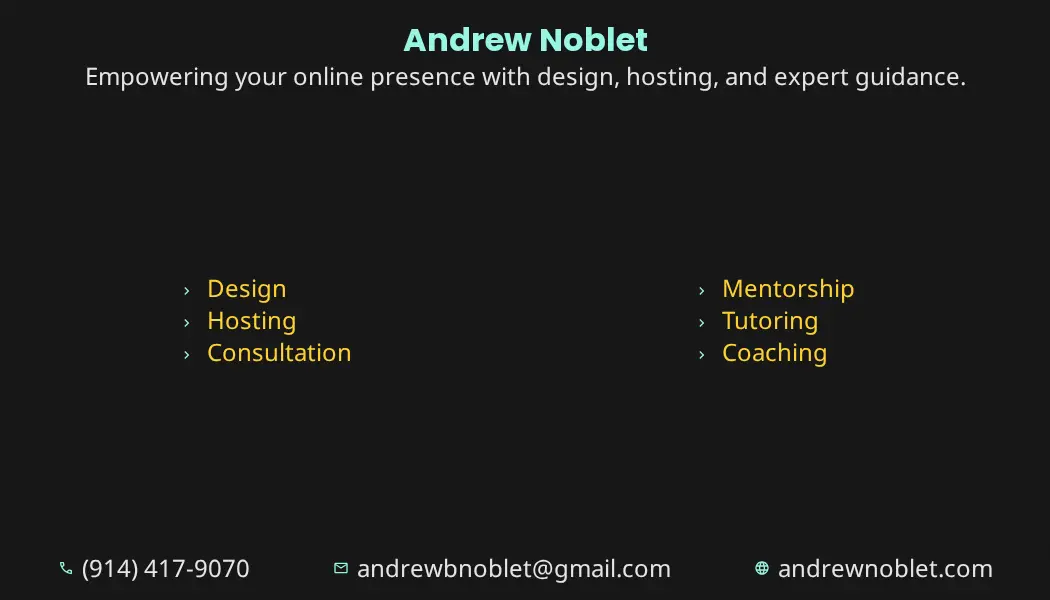
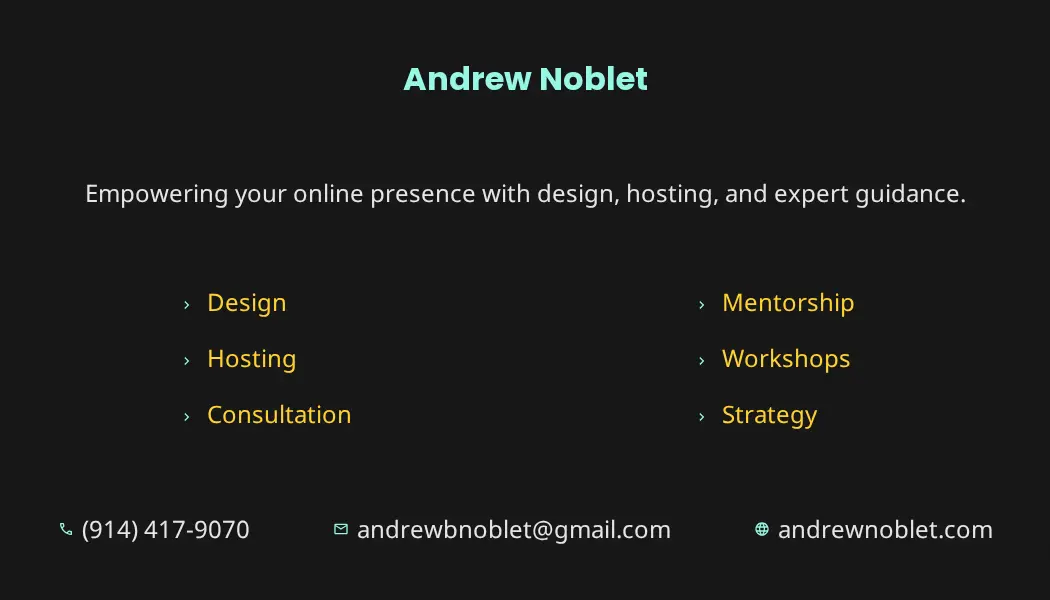
feat(ui,docs,about): enhance structure, clarity, and accessibility
Redesign about, business card, and portfolio pages for stronger personal focus, improved accessibility, and cleaner layouts based on user feedback. Refactor component styles to enforce atomic CSS, unify utility classes, and decouple global styles. Update navigation, pricing, and blog interfaces for consistency and visual balance. Revise and clarify project and instructions documentation, strictly enforcing minimal blog frontmatter standards and separated tool-specific guidelines. Implement reusable logic, optimize spacing, and validate all changes for visual correctness, accessibility, and maintainability. These updates prioritize minimalism, modularity, and user-centered design while supporting autonomous workflows and open-source best practices.

diff --git a/src/components/business-card.ts b/src/components/business-card.ts
@@ -70,15 +70,15 @@ export class BusinessCard extends Base {
                 guidance.
               </p>
               <div class="align-items-center flex space-around">
-                <ul class="amber-300 font-size-1-5">
+                <ul class="amber-300 font-size-1-5 gap-2 grid">
                   <li>Design</li>
                   <li>Hosting</li>
                   <li>Consultation</li>
                 </ul>
-                <ul class="amber-300 font-size-1-5">
+                <ul class="amber-300 font-size-1-5 gap-2 grid">
                   <li>Mentorship</li>
-                  <li>Tutoring</li>
-                  <li>Coaching</li>
+                  <li>Workshops</li>
+                  <li>Strategy</li>
                 </ul>
               </div>
               <div class="flex font-size-1-5 space-around">

diff --git a/scripts/screenshot-business-card.js b/scripts/screenshot-business-card.js
@@ -25,7 +25,7 @@ const __filename = fileURLToPath(import.meta.url);
 const __dirname = path.dirname(__filename);
 
 const SCREENSHOT_DIR = '.screenshots';
-const DEV_SERVER_URL = 'http://localhost:4322/business-card';
+const DEV_SERVER_URL = 'http://localhost:4321/business-card';
 const BROWSER_WIDTH = 1200;
 const BROWSER_HEIGHT = 800;
 

diff --git a/.github/copilot-instructions.md b/.github/copilot-instructions.md
@@ -67,6 +67,8 @@
 - Use utility CSS classes available in the global stylesheet when possible
 - After every interaction with the user through the chat interface, update your memory as to why the user asked for the change, what the user prefers, and how the user interacts with the codebase.
 - Always use aliases when importing. Never use relative paths.
+- Always assume the development server is already running.
+- The development server is running on `http://localhost:4321/`
 
 **_ Keep it simple! _**
 
